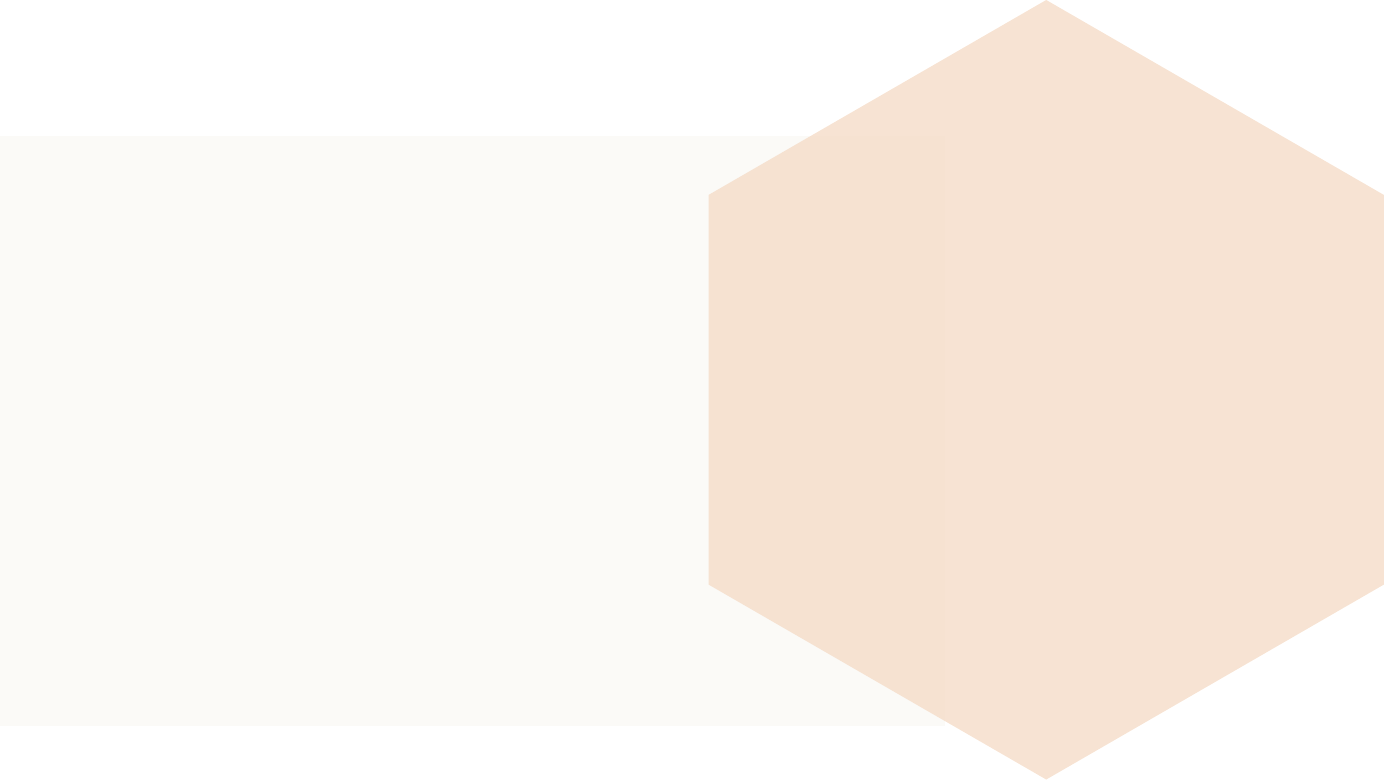
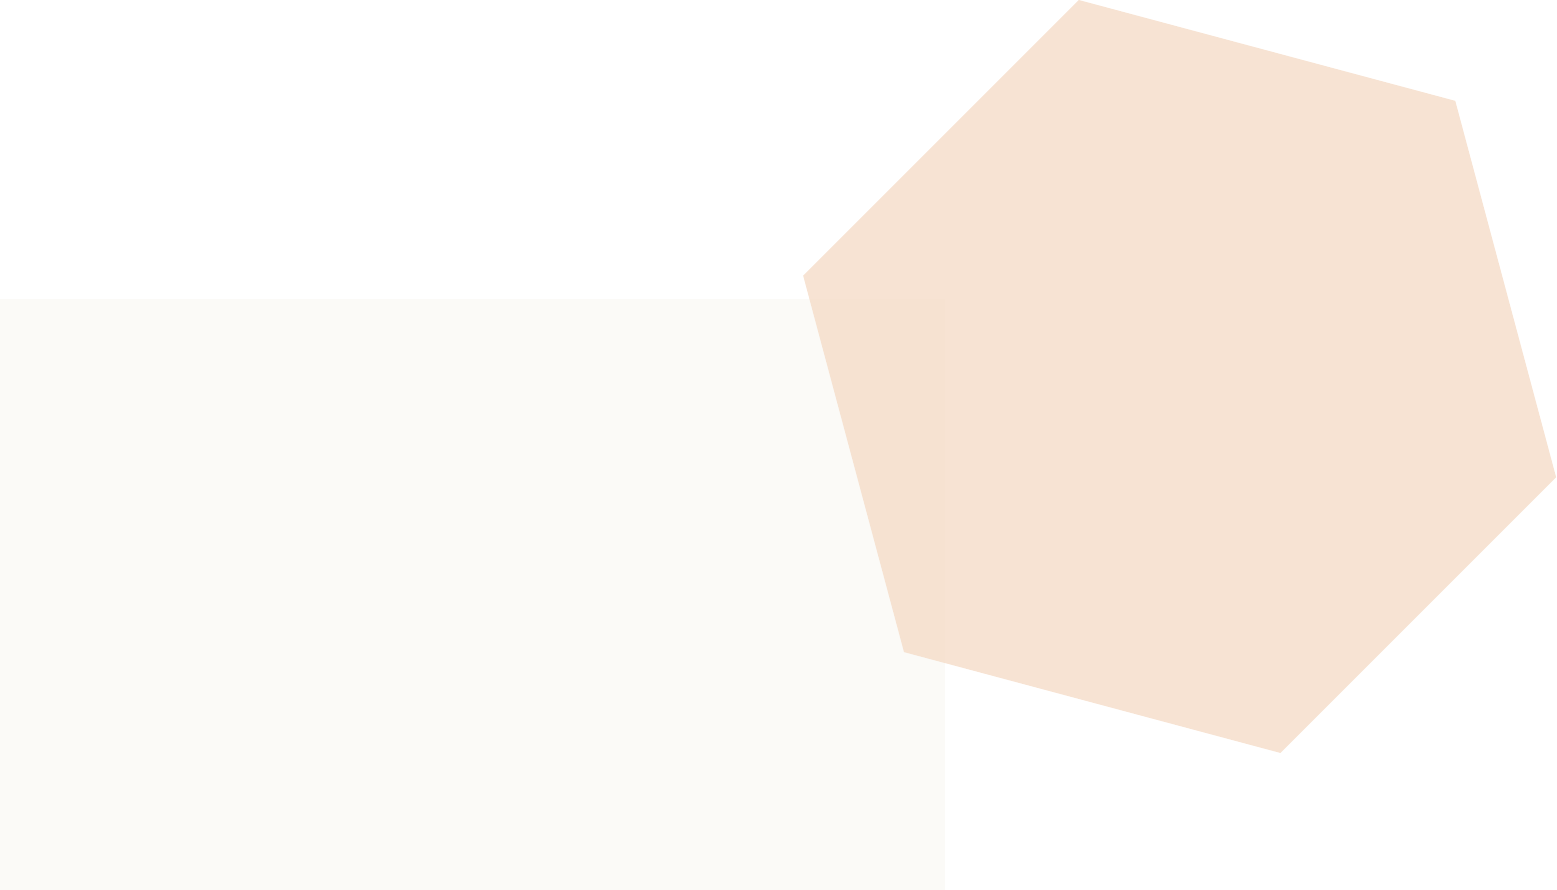
Move hexagon up-right and rotate 15 degrees

Changed region(s): [[0.4971, 0.0615, 1.0, 1.0], [0.5903, 0.0, 0.7767, 0.1538], [0.7767, 0.0308, 0.8078, 0.0615]]

diff --git a/01-demo/gen_bg.tex b/01-demo/gen_bg.tex
@@ -9,9 +9,9 @@
 % Canvas
 \fill[ra-bg] (0,0) rectangle (8,5);
 
-% One large regular hexagon, flat-top orientation
-\fill[ra-fill, opacity=0.8]
-  (6.0,4.5) -- ++(30:3.3) -- ++(330:3.3) -- ++(270:3.3)
+% One large regular hexagon, slightly rotated
+\fill[ra-fill, opacity=0.8, rotate around={15:(6.8,5.2)}]
+  (6.8,5.2) -- ++(30:3.3) -- ++(330:3.3) -- ++(270:3.3)
             -- ++(210:3.3) -- ++(150:3.3) -- cycle;
 
 \end{tikzpicture}
